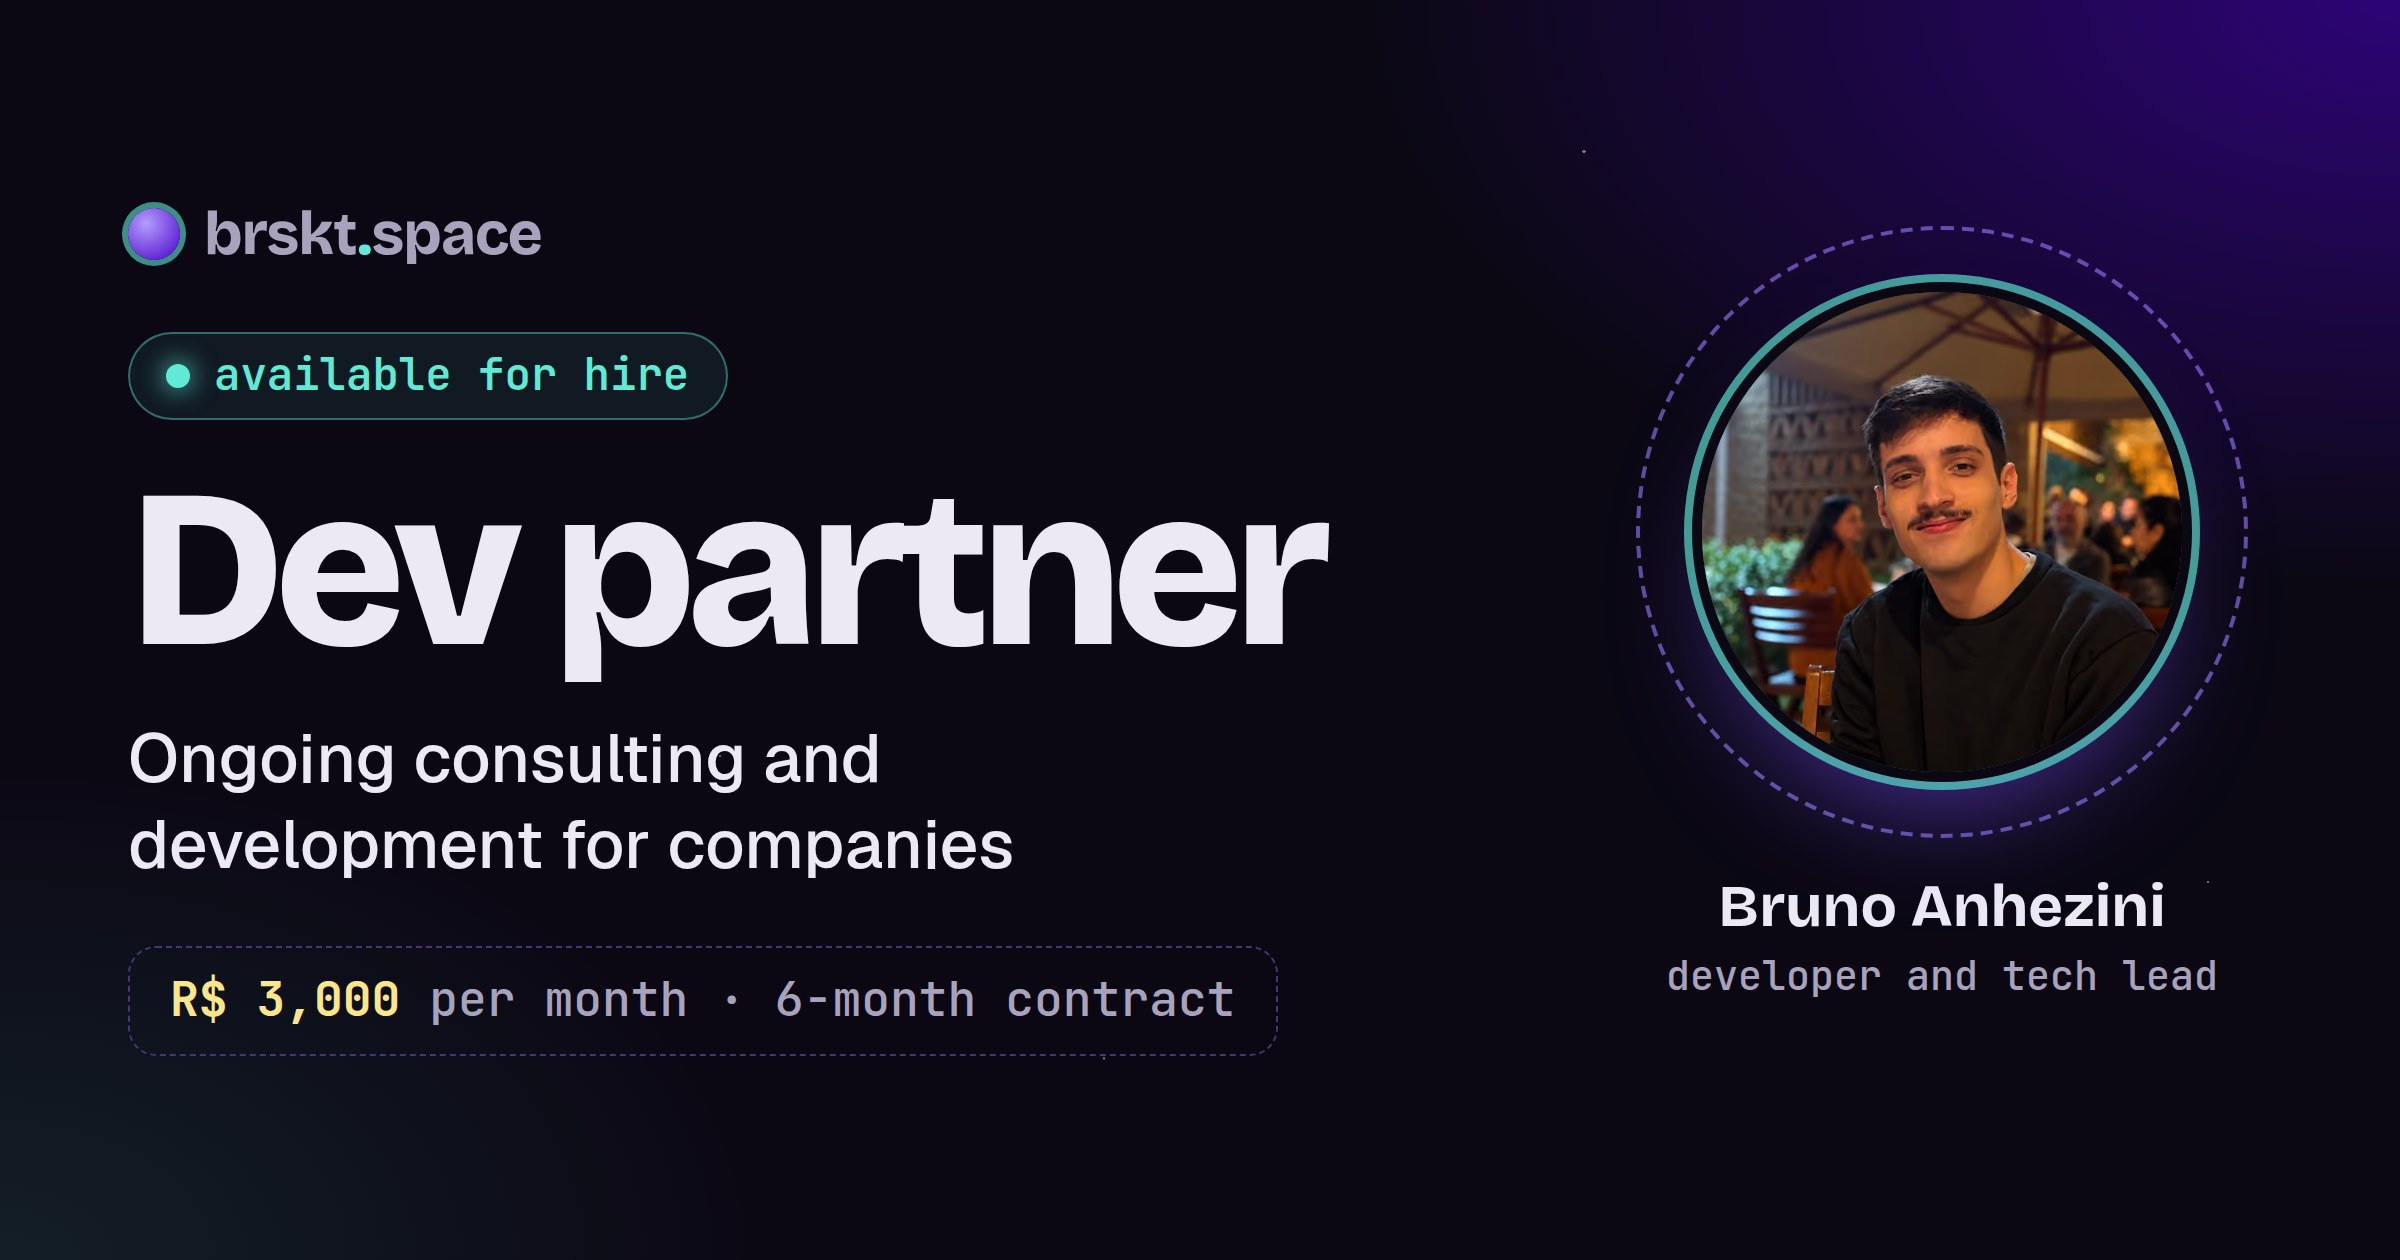
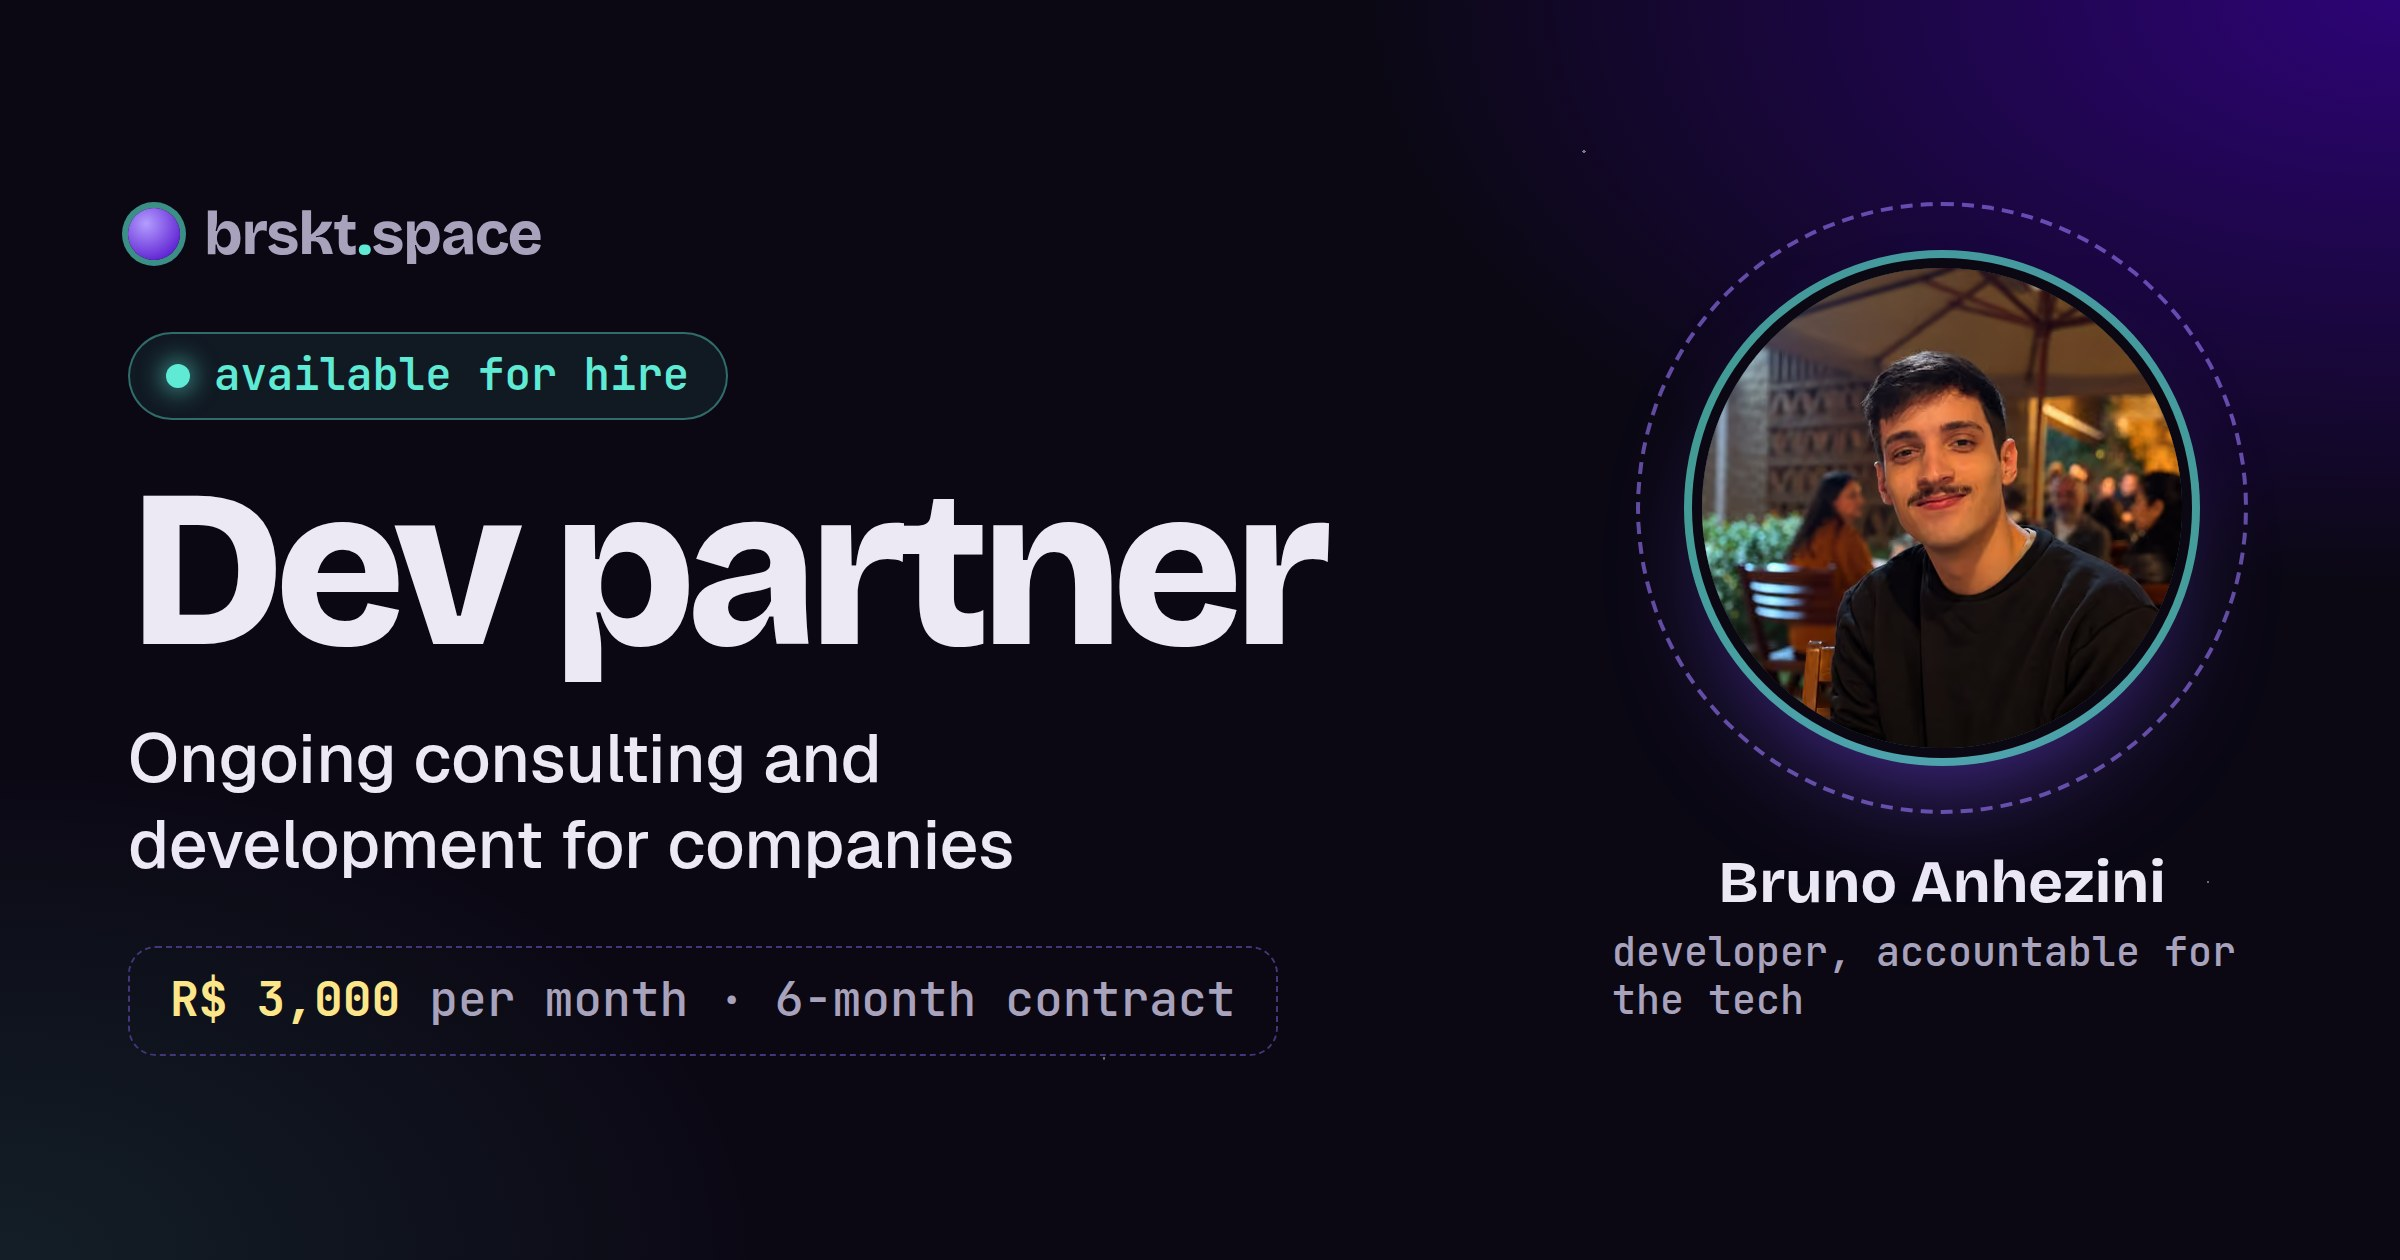
Dev parceiro: review fixes (phone CTA bar, anchors, layout, JSON-LD, copy, docs)
- Sticky WhatsApp bar: label hidden up to 26rem so the button fits at
  361-416px; its scroll fade-in now survives the minifier (timeline in its
  own rule).
- 'Ver como funciona' anchor clears the two-row header and the kicker.
- Hero orbit fits the two-column hero; steps grid has no lonely last card;
  AI intro rendered as the section subtitle.
- JSON-LD: drop inLanguage and eligibleDuration (not valid for this use).
- Shorter titles/descriptions; share-image alt carries price and term; EN
  share image no longer says 'tech lead'; more natural EN; PT/EN parity in the
  conditions list; project CTA reads 'Ver todos os detalhes'.
- Home callout wraps cleanly on phones and only shows while the service is
  available.
- Docs: where price and term live, what 'paused' does, templates mention the
  service type and 'landing'.

Claude-Session: https://claude.ai/code/session_01DinC2rRZ4cEC7zi1MHZhnE

Changed region(s): [[0.6562, 0.1548, 0.9375, 0.8048]]

diff --git a/src/i18n/ui.ts b/src/i18n/ui.ts
@@ -173,7 +173,7 @@ const strings = {
   'pub.gallery': { pt: 'Por dentro', en: 'Inside' },
   'pub.stackKicker': { pt: '// equipamento da missão', en: '// mission gear' },
   'pub.stack': { pt: 'Stack', en: 'Stack' },
-  'pub.serviceLanding': { pt: 'Ver a proposta completa', en: 'See the full proposal' },
+  'pub.serviceLanding': { pt: 'Ver todos os detalhes', en: 'See all the details' },
   'meta.type': { pt: 'tipo', en: 'type' },
   'meta.status': { pt: 'status', en: 'status' },
   'meta.date': { pt: 'publicado', en: 'published' },
@@ -199,9 +199,10 @@ const strings = {
   'service.perMonth': { pt: 'por mês', en: 'per month' },
   'service.term': { pt: 'contrato de {n} meses', en: '{n}-month contract' },
   'service.orbitCore': { pt: 'sua empresa', en: 'your company' },
+  /** The view appends the price and the term, e.g. "R$ 3.000 por mês, contrato de 6 meses." */
   'service.ogAlt': {
-    pt: 'Dev parceiro: consultoria e desenvolvimento contínuo com Bruno Anhezini',
-    en: 'Dev partner: ongoing consulting and development with Bruno Anhezini',
+    pt: 'Dev parceiro, disponível para contratação: consultoria e desenvolvimento contínuo com Bruno Anhezini.',
+    en: 'Dev partner, available for hire: ongoing consulting and development with Bruno Anhezini.',
   },
   'service.sticky': { pt: 'Bora conversar?', en: 'Shall we talk?' },
   'service.recognizeKicker': { pt: '// sinais de que dá pra melhorar', en: '// signs it could be better' },

diff --git a/CLAUDE.md b/CLAUDE.md
@@ -6,7 +6,7 @@ README.md (Portuguese) is the owner's manual; keep it accurate when structure or
 
 ## Structure
 - `src/content/publications/<slug>/{pt,en}.md`: publications (type product | experiment | article | service). Folder name = slug = URL. A `service` (status `available` | `paused`) is listed under Projects; its `landing:` field names the PageKey of its landing, and its page shows the WhatsApp + "see the full proposal" CTAs.
-- `src/content/pages/{home,about}/{pt,en}.md`: home and about copy. `src/content/pages/dev-partner/{pt,en}.md`: all the copy of the Dev parceiro landing (`/pt/servicos/dev-parceiro/`, `/en/services/dev-partner/`, `DevPartnerView.astro`); price and term are numbers in `offer` (also used by its JSON-LD). Commercial facts there are only the ones the owner confirmed: R$ 3.000/month, 6-month contract, one fee for everything, priorities agreed with the client, estimates per demand, remote, companies in Brazil, code and access belong to the client, tool costs paid by the client, few clients at a time (no number), renewal possible. `src/data/profile.ts`: CV facts as `{ pt, en }`.
+- `src/content/pages/{home,about}/{pt,en}.md`: home and about copy. `src/content/pages/dev-partner/{pt,en}.md`: all the copy of the Dev parceiro landing (`/pt/servicos/dev-parceiro/`, `/en/services/dev-partner/`, `DevPartnerView.astro`); price and term are numbers in `offer` (price box, hero price line, share-image alt, JSON-LD), but they are also written in the copy (description, conditions, FAQ, the dev-parceiro publication) and drawn in `src/assets/og/dev-partner-*.jpg` and the publication's `media/` images: a price change touches all of them (README lists them). `status: paused` on the publication hides the home callout. Commercial facts there are only the ones the owner confirmed: R$ 3.000/month, 6-month contract, one fee for everything, priorities agreed with the client, estimates per demand, remote, companies in Brazil, code and access belong to the client, tool costs paid by the client, few clients at a time (no number), renewal possible. `src/data/profile.ts`: CV facts as `{ pt, en }`.
 - Frontmatter strings (title/summary/headline/tagline/availability/story) are not smart-quoted: type ’ directly instead of '.
 - `src/i18n/ui.ts`: UI strings, route segments, URL helpers. `src/lib/url.ts`: base-aware URL building.
 - Routing: every /pt and /en page comes from `src/pages/[lang]/[...path].astro`, which takes its paths from `getSiteRoutes()` in `src/lib/routes.ts`. The same table feeds `sitemap.xml`. Page bodies live in `src/components/views/*View.astro`. To add a page: add a `PageKey` + `segments` entry in `src/i18n/ui.ts`, a `RouteView` variant + `routes.push` in `getSiteRoutes()`, a view component, and a branch in `[...path].astro`. The nav item in `SiteHeader.astro` is optional. Never create files under `src/pages/pt/` or `src/pages/en/`: they build and pass `npm run verify`, but they are missing from sitemap.xml and the nav.

diff --git a/README.md b/README.md
@@ -64,6 +64,7 @@ campo em comentários. Troque todo `TODO` dos modelos; o `npm run verify` (e o d
 | `date` | sim | Dia em que entra no site, `AAAA-MM-DD` (ex.: `2026-10-01`). Outro formato, como `01/10/2026`, faz o build falhar. |
 | `updated` | não | Dia da última atualização relevante, `AAAA-MM-DD`. |
 | `status` | em product, experiment e service | `in-development`, `demo` (demo pública no ar), `live`, `paused`, `archived`. Experimentos também aceitam `running` e `concluded`. Serviços usam `available` (disponível para contratação) ou `paused`. Em artigos, apague a linha. |
+| `landing` | não (só em service) | A landing do serviço, quando existe: `devPartner`. A página do projeto ganha os botões "Conversar pelo WhatsApp" e "Ver todos os detalhes". |
 | `thumbnail` | não | Imagem do card na home e nas listagens. Sem ela, o card usa a `cover`. |
 
 > **Artigos:** o tempo de leitura é calculado sozinho a partir do texto (cerca de 200 palavras por minuto), não precisa preencher. Para diagramas e ilustrações animadas, use `pt.mdx`/`en.mdx` em vez de `.md` e importe componentes de `src/components/diagrams/` (veja o artigo `interface-como-integracao` como exemplo). Blocos de código ganham moldura de terminal automaticamente.
@@ -117,8 +118,13 @@ Sempre mexa nos dois idiomas juntos.
   `code`, `terminal`, `sparkles`). O texto abaixo é a introdução.
 - **Dev parceiro (serviço):** a landing fica em `src/content/pages/dev-partner/{pt,en}.md`: título, situações,
   passos, condições, perguntas frequentes e a mensagem que já vem escrita no WhatsApp (`whatsappMessage`). O
-  valor e o prazo são números em `offer` (`monthlyPrice`, `months`); a página formata e usa os mesmos números
-  nos dados estruturados para o Google. A entrada em Projetos é `src/content/publications/dev-parceiro/`
+  valor e o prazo em `offer` (`monthlyPrice`, `months`) alimentam o quadro de preço, a linha de preço do topo,
+  o texto alternativo da imagem de compartilhamento e os dados estruturados para o Google. **Se o valor ou o
+  prazo mudarem**, eles também aparecem escritos à mão: em `description`, nas condições e nas perguntas
+  frequentes da landing, no `summary` e no texto de `src/content/publications/dev-parceiro/{pt,en}.md`, e
+  desenhados nas imagens `src/assets/og/dev-partner-{pt,en}.jpg` e nas miniaturas/capas da pasta `media/`
+  da publicação (gere de novo). Para tirar a oferta do ar, use `status: paused` (some o destaque da home e
+  o selo vira "pausado"; a landing continua no ar) ou `draft: true` na publicação. A entrada em Projetos é `src/content/publications/dev-parceiro/`
   (`type: service`, `landing: devPartner`). Os botões de WhatsApp contam cliques no GoatCounter como
   `whatsapp-<lugar>-<idioma>` (ex.: `whatsapp-dev-parceiro-hero-pt`). A imagem de compartilhamento da landing
   fica em `src/assets/og/dev-partner-{pt,en}.jpg` (1200×630).

diff --git a/src/content/pages/dev-partner/en.md b/src/content/pages/dev-partner/en.md
@@ -2,8 +2,8 @@
 # Copy of the Dev parceiro landing (/en/services/dev-partner/).
 # Icons follow the item order: recognize = repeat, unplug, sheet, wallet, lock, lightbulb;
 # does = zap, plug, list-checks, receipt, wrench, rocket; how = message, telescope, list-checks, hammer, refresh.
-title: "Dev partner: consulting and development for companies in Brazil"
-description: "Automation, system integrations, improvements and new systems, with a dev who understands the problem and keeps the solution running. R$ 3,000/month, 6-month contract."
+title: "Dev partner · consulting and development"
+description: "Ongoing consulting and development for companies in Brazil: automation, integrations, improvements and new systems. R$ 3,000/month, 6-month contract."
 offer:
   monthlyPrice: 3000
   currency: BRL
@@ -11,7 +11,7 @@ offer:
 hero:
   kicker: "Dev partner · a service for companies in Brazil"
   title: "Is your team spending time on things a system could be doing for them?"
-  lead: "I’m Bruno. I work with you personally, as the developer and the one technically responsible: I figure out what’s holding the operation back, propose the solution, build it and keep it working."
+  lead: "I’m Bruno. I work with you directly, as your developer and the person accountable for the technical side: I figure out what’s holding the operation back, propose the solution, build it and keep it working."
   ctaNote: "First we talk and see if it makes sense for both of us."
   orbit:
     - "automation"
@@ -83,14 +83,14 @@ who:
   text: "I’m a developer based in Americana, São Paulo, Brazil. I work mainly with C#/.NET, Angular and SQL Server, and my strength is taking care of what runs behind the screens and keeping systems working day to day. I’ve worked on accounting and tax systems, APIs and automations, a solution that connects physical devices to an online platform and a system full of integrations. With Dev partner, I’m the one who does the work and answers for it."
 conditions:
   title: "What it costs"
-  intro: "One price per month, with no separate charges to understand, build and maintain."
+  intro: "One monthly price. Understanding the problem, building and maintaining aren’t billed separately."
   points:
     - "Priorities agreed with you"
     - "A delivery estimate for each request, once I understand what it involves"
     - "Work on different needs of the business throughout the contract"
     - "Code, accounts and access in your company’s name"
     - "Tools, cloud, licenses and services the solutions use are paid separately by the company"
-    - "Remote work for companies in Brazil, with only a few companies at a time"
+    - "Remote work, for companies in Brazil, with only a few clients at a time"
   note: "After the 6 months, we can renew if it makes sense for both sides."
 faq:
   title: "Before you ask"

diff --git a/src/content/publications/dev-parceiro/en.md b/src/content/publications/dev-parceiro/en.md
@@ -10,9 +10,9 @@ thumbnail: ./media/thumb-en.webp
 tags: ["Service", "Consulting", "Automation", "Integrations"]
 ---
 
-Dev partner is the way I found to work directly with companies. I come in as the developer and the one technically responsible: I understand what’s holding the operation back, look for opportunities, propose the solution, design it, build it and keep it working.
+Dev partner is how I work directly with companies. I come in as the developer and the person accountable for the technical side: I understand what’s holding the operation back, look for opportunities, propose the solution, design it, build it and keep it working.
 
-A company can come to me with a problem or just an idea, and I help figure out what it needs. That might mean automating a repetitive task, getting two systems to talk to each other, moving a process off a spreadsheet, reviewing what you pay for tools, improving an existing system or building a new one.
+A company can come to me with a problem or just an idea, and I help figure out what it needs. That might mean automating a repetitive task, getting two systems to talk to each other, moving a process off a spreadsheet, reviewing what it pays for tools, improving an existing system or building a new one.
 
 I use Claude Code, Codex and other AI tools a lot to speed up development. Direction, technical decisions, review and validation stay with me.
 

diff --git a/src/content/pages/dev-partner/pt.md b/src/content/pages/dev-partner/pt.md
@@ -2,8 +2,8 @@
 # Copy of the Dev parceiro landing (/pt/servicos/dev-parceiro/).
 # Icons follow the item order: recognize = repeat, unplug, sheet, wallet, lock, lightbulb;
 # does = zap, plug, list-checks, receipt, wrench, rocket; how = message, telescope, list-checks, hammer, refresh.
-title: "Dev parceiro: consultoria e desenvolvimento para empresas"
-description: "Automação, integração entre sistemas, melhorias e sistemas novos, com um dev que entende o problema e mantém a solução rodando. R$ 3.000/mês, contrato de 6 meses."
+title: "Dev parceiro · consultoria e desenvolvimento"
+description: "Consultoria e desenvolvimento contínuo pra empresas: automação, integrações, melhorias e sistemas novos. R$ 3.000/mês, contrato de 6 meses."
 offer:
   monthlyPrice: 3000
   currency: BRL
@@ -90,7 +90,7 @@ conditions:
     - "Trabalho em diferentes necessidades do negócio ao longo do contrato"
     - "Código, contas e acessos no nome da sua empresa"
     - "Ferramentas, nuvem, licenças e serviços usados pelas soluções são pagos à parte pela empresa"
-    - "Trabalho remoto, com poucas empresas por vez"
+    - "Trabalho remoto, para empresas no Brasil, com poucos clientes por vez"
   note: "Depois dos 6 meses, dá pra renovar se fizer sentido pros dois lados."
 faq:
   title: "Antes que você pergunte"

diff --git a/templates/publication/pt.md b/templates/publication/pt.md
@@ -12,6 +12,8 @@
 #   product    → produto; aparece em Projetos (/pt/projetos/)
 #   experiment → experimento; aparece em Projetos (/pt/projetos/)
 #   article    → artigo técnico; aparece em Artigos (/pt/artigos/)
+#   service    → serviço contratável; aparece em Projetos (status available ou paused). Se tiver uma landing
+#                própria (uma rota em src/i18n/ui.ts), aponte para ela com `landing:` (hoje só devPartner).
 type: product
 
 # Título da página, dos cards e da aba do navegador.

diff --git a/templates/publication/en.md b/templates/publication/en.md
@@ -12,6 +12,8 @@
 #   product    → product; listed under Projects (/en/projects/)
 #   experiment → experiment; listed under Projects (/en/projects/)
 #   article    → technical article; listed under Articles (/en/articles/)
+#   service    → a service for hire; listed under Projects (status available or paused). If it has its own
+#                landing (a route in src/i18n/ui.ts), point to it with `landing:` (today only devPartner).
 type: product
 
 # Title of the page, the cards and the browser tab.
